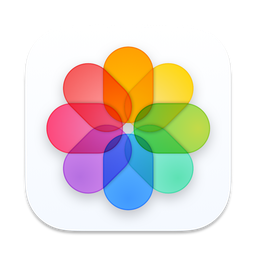
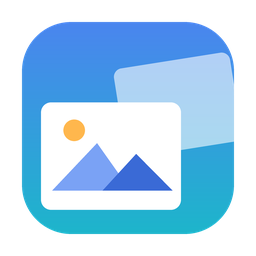
chore(release)：换掉第三方图标，包标识符改中性
应用图标原本取自 macOS 自带的「照片」，那是 Apple 的商标资源，随包分发有
法律风险。改成项目自己的原创图形，五档（16/32/64/256/1024）一并替换，
来源与授权说明同步改写。

包标识符 com.shaoxianshi.gallery 含个人拼写，改成 com.example.gallery。
它只影响 .app 的身份，不影响用户数据目录（那里按应用名 Gallery 走）。

diff --git a/tests/test_macos_app.py b/tests/test_macos_app.py
@@ -63,7 +63,7 @@ def test_info_plist_points_at_the_icon(project_root: Path, tmp_path: Path, fake_
     info = plistlib.loads((_bundle(destination) / "Info.plist").read_bytes())
 
     assert info["CFBundleName"] == APP_NAME
-    assert info["CFBundleIdentifier"] == "com.shaoxianshi.gallery"
+    assert info["CFBundleIdentifier"] == "com.example.gallery"
     assert info["CFBundleExecutable"] == "Gallery"
     assert info["CFBundlePackageType"] == "APPL"
     # Dock 图标就来自这一行，它指的文件必须在包里
@@ -74,7 +74,7 @@ def test_info_plist_points_at_the_icon(project_root: Path, tmp_path: Path, fake_
 
 def test_bundle_identifier_follows_the_app_name() -> None:
     """包标识符不能含大写字母，也不能和应用名脱节；组织名要改就改这里。"""
-    assert macos_app.BUNDLE_IDENTIFIER == "com.shaoxianshi.gallery"
+    assert macos_app.BUNDLE_IDENTIFIER == "com.example.gallery"
     assert macos_app.BUNDLE_IDENTIFIER.endswith(APP_NAME.lower())
 
 

diff --git a/src/gallery/macos_app.py b/src/gallery/macos_app.py
@@ -43,9 +43,8 @@ from gallery.core.paths import app_icon_master
 #: 打包产物的默认落点（相对仓库根），与 ``.gitignore`` 里的 ``dist/`` 对应。
 BUILD_DIR_NAME: Final = "dist"
 
-#: 逆向域名标识符。它与应用名保持一致（包标识符不能含大写字母），
-#: 改组织名或换签名/公证时改这里的前缀。
-BUNDLE_IDENTIFIER: Final = f"com.shaoxianshi.{APP_NAME.lower()}"
+#: 逆向域名标识符（包标识符不能含大写字母）。换签名或公证时改这里的前缀。
+BUNDLE_IDENTIFIER: Final = f"com.example.{APP_NAME.lower()}"
 
 #: ``Contents/MacOS/`` 下的启动脚本名，也就是 ``CFBundleExecutable``。
 LAUNCHER_NAME: Final = "Gallery"

diff --git a/src/gallery/resources/README.md b/src/gallery/resources/README.md
@@ -37,5 +37,4 @@
 **换图标：** 替换 1024 那一档（源图），其余按比例缩放，然后重新生成应用包
 （`uv run python -m gallery.macos_app`）。
 
-**来源与授权：** 当前这份图标取自 macOS 自带的「照片」应用（Apple 商标资源），仅供本地自用。
-对外发布前请换成自己的图标。
+**来源与授权：** 本项目自己的图形，随仓库以 MIT 分发，不含任何第三方商标素材。
